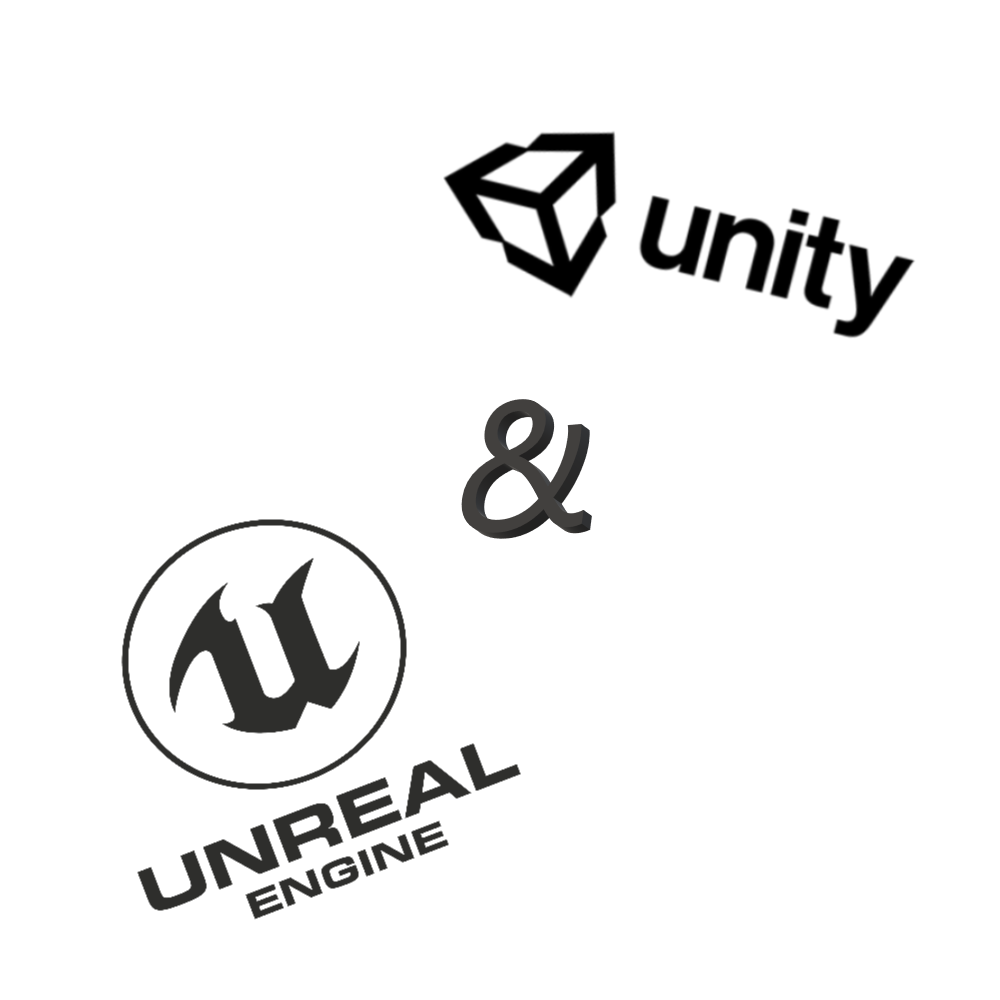
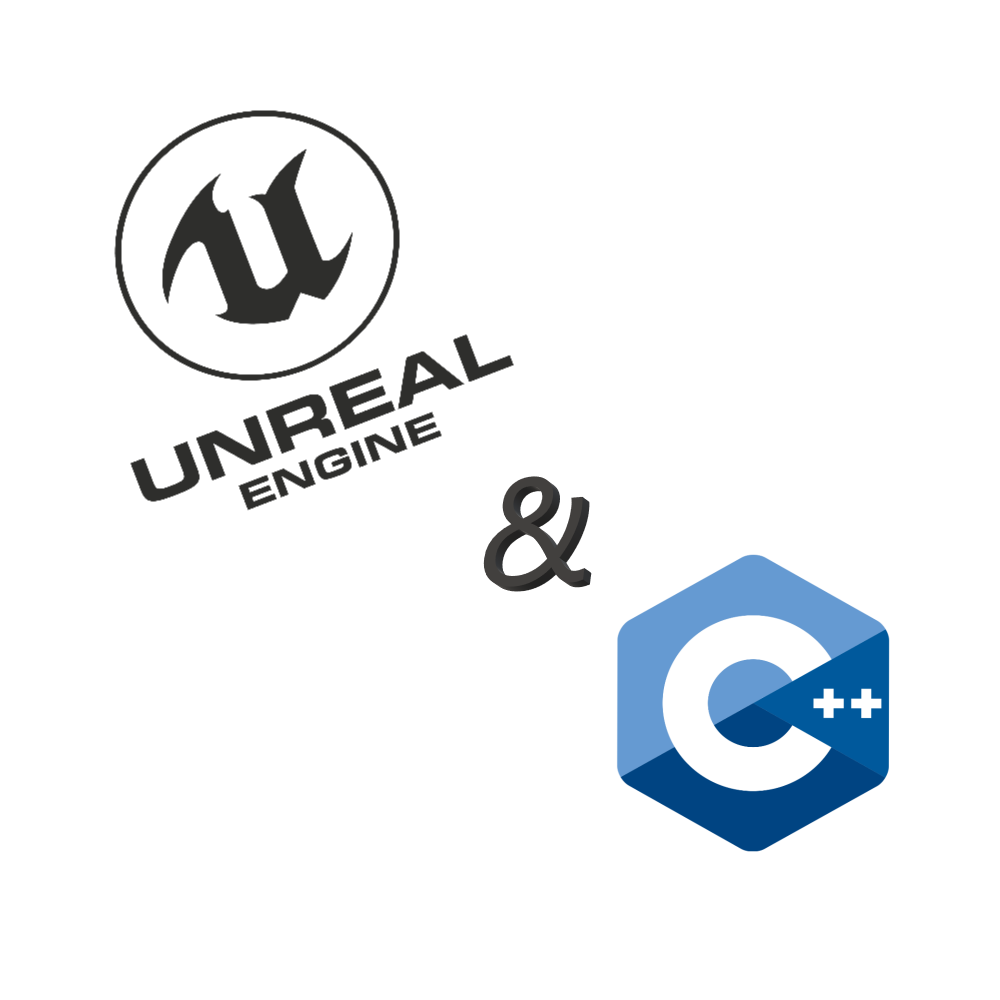
Changed Images and Text to match current state

diff --git a/index.html b/index.html
@@ -95,12 +95,12 @@
 
                 <div id="img3">
                     <img src="./images/SlideshowImg/Languages.png">
-                    <p class="caption">When I finish my training, I will know these as well.</p>
+                    <p class="caption">I also recently finished learning how to use C# and Unity.</p>
                 </div>
 
                 <div id="img4">
                     <img src="./images/SlideshowImg/EngineDuo.png">
-                    <p class="caption">I will also know how to work with these game engines.</p>
+                    <p class="caption">Next I'll learn C++ and Unreal.</p>
                 </div>
 
                 <div id="img5">
